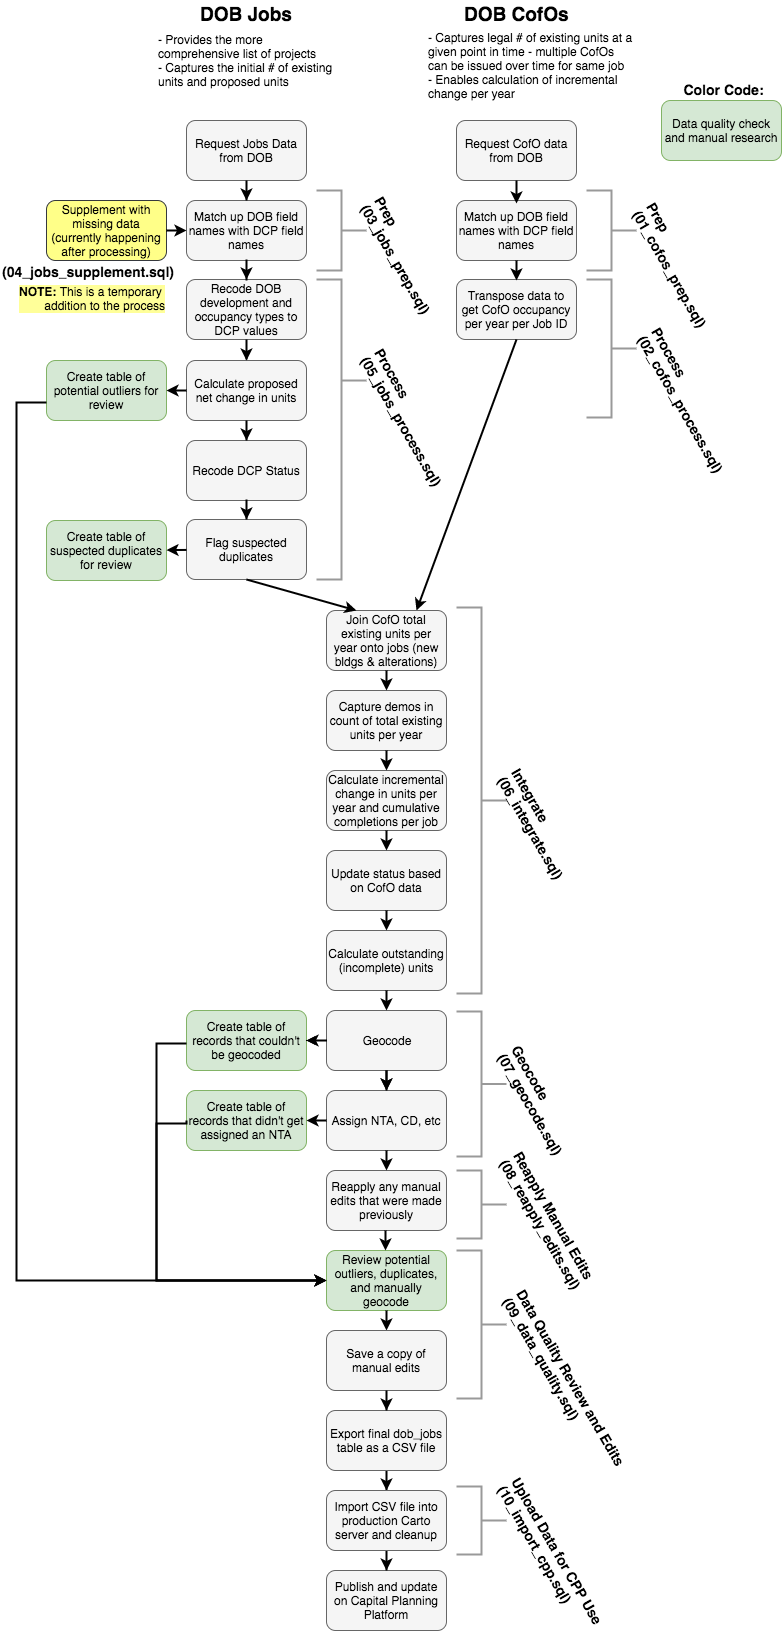
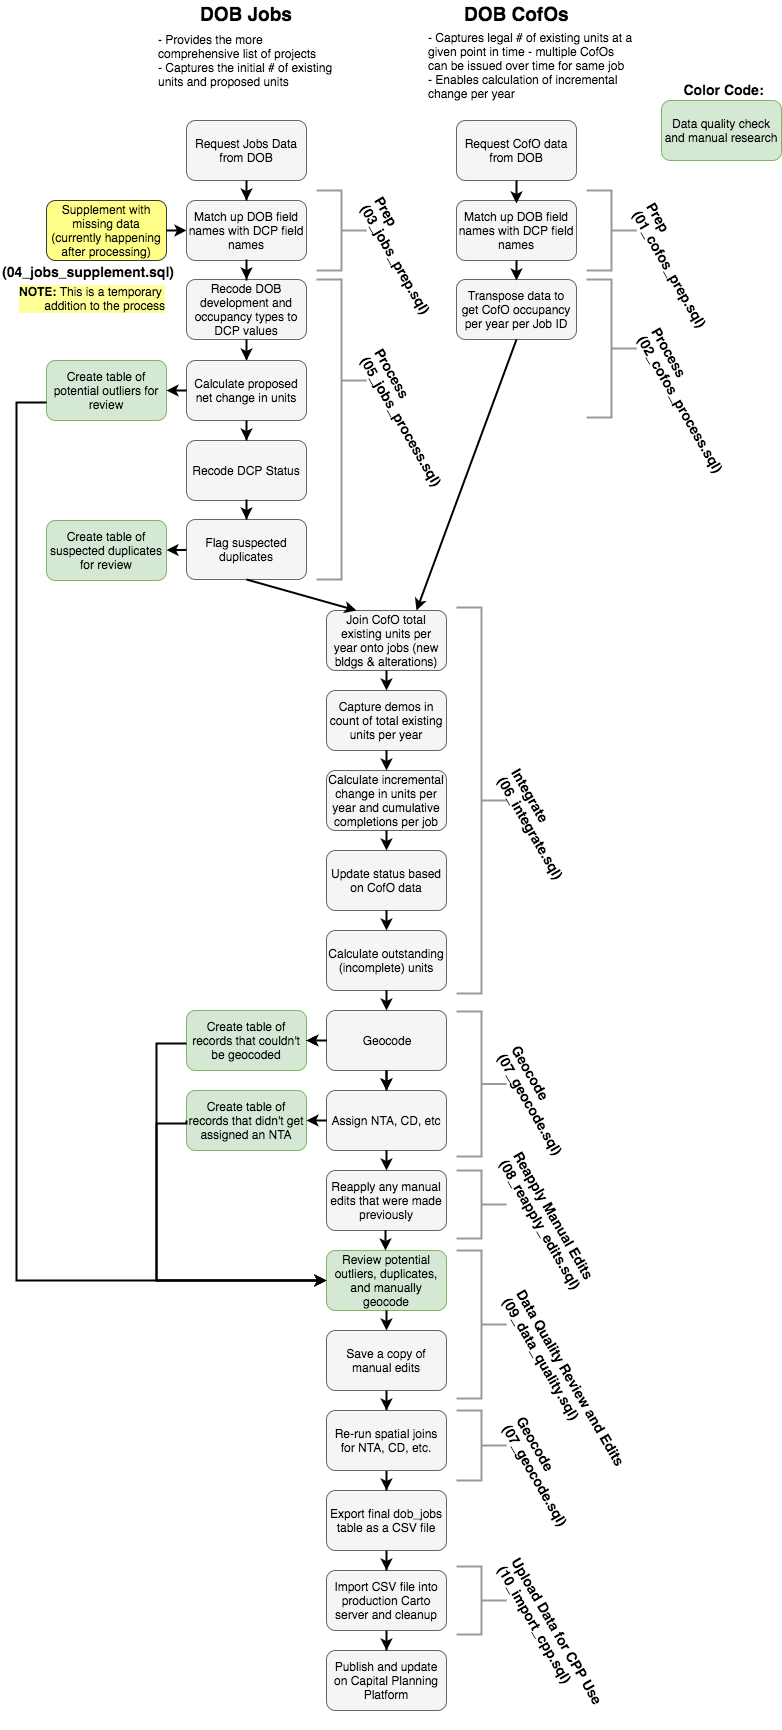
updated diagram

diff --git a/README.md b/README.md
@@ -39,7 +39,8 @@ The two datasets must be combined, because the jobs data doesn't capture change 
 - [x] Run [06_integrate.sql](https://github.com/NYCPlanning/housingpipeline-db/blob/master/06_integrate.sql)
 - [x] Run [07_geocode.sql](https://github.com/NYCPlanning/housingpipeline-db/blob/master/07_geocode.sql)
 - [x] If any manual geocoding has been done previously, make sure to run [08_reapply_edits.sql](https://github.com/NYCPlanning/housingpipeline-db/blob/master/08_reapply_edits.sql). These edits may need to be reviewed to make sure they're still needed.
-- [x] Run the queries in [09_data_quality.sql](https://github.com/NYCPlanning/housingpipeline-db/blob/master/09_data_quality.sql) after finishing [07_geocode.sql](https://github.com/NYCPlanning/housingpipeline-db/blob/master/07_geocode.sql). Re-run 07_geocode.sql after applying manual geocoding
+- [x] Run the queries in [09_data_quality.sql](https://github.com/NYCPlanning/housingpipeline-db/blob/master/09_data_quality.sql) after finishing [07_geocode.sql](https://github.com/NYCPlanning/housingpipeline-db/blob/master/07_geocode.sql) or 8_reapply_edits.sql to creates tables of records that need to be reviewed and geocoded mnaually.
+- [x] Re-run all the admin/service boundary spatial joins in 07_geocode.sql after applying the manual geocoding and flagging.
 - [x] Export the final `dob_jobs` table as a CSV.
 - [x] Upload the CSV file to the production Carto server for the Capital Planning Platform and run the commands in [10_import_ccp.sql](https://github.com/NYCPlanning/housingpipeline-db/blob/master/10_import_ccp.sql) to do cleanup and edits needed for the housing explorer.
 - [x] Save final data table on the production Carto server as `housingdevdb_YYMMDD`
